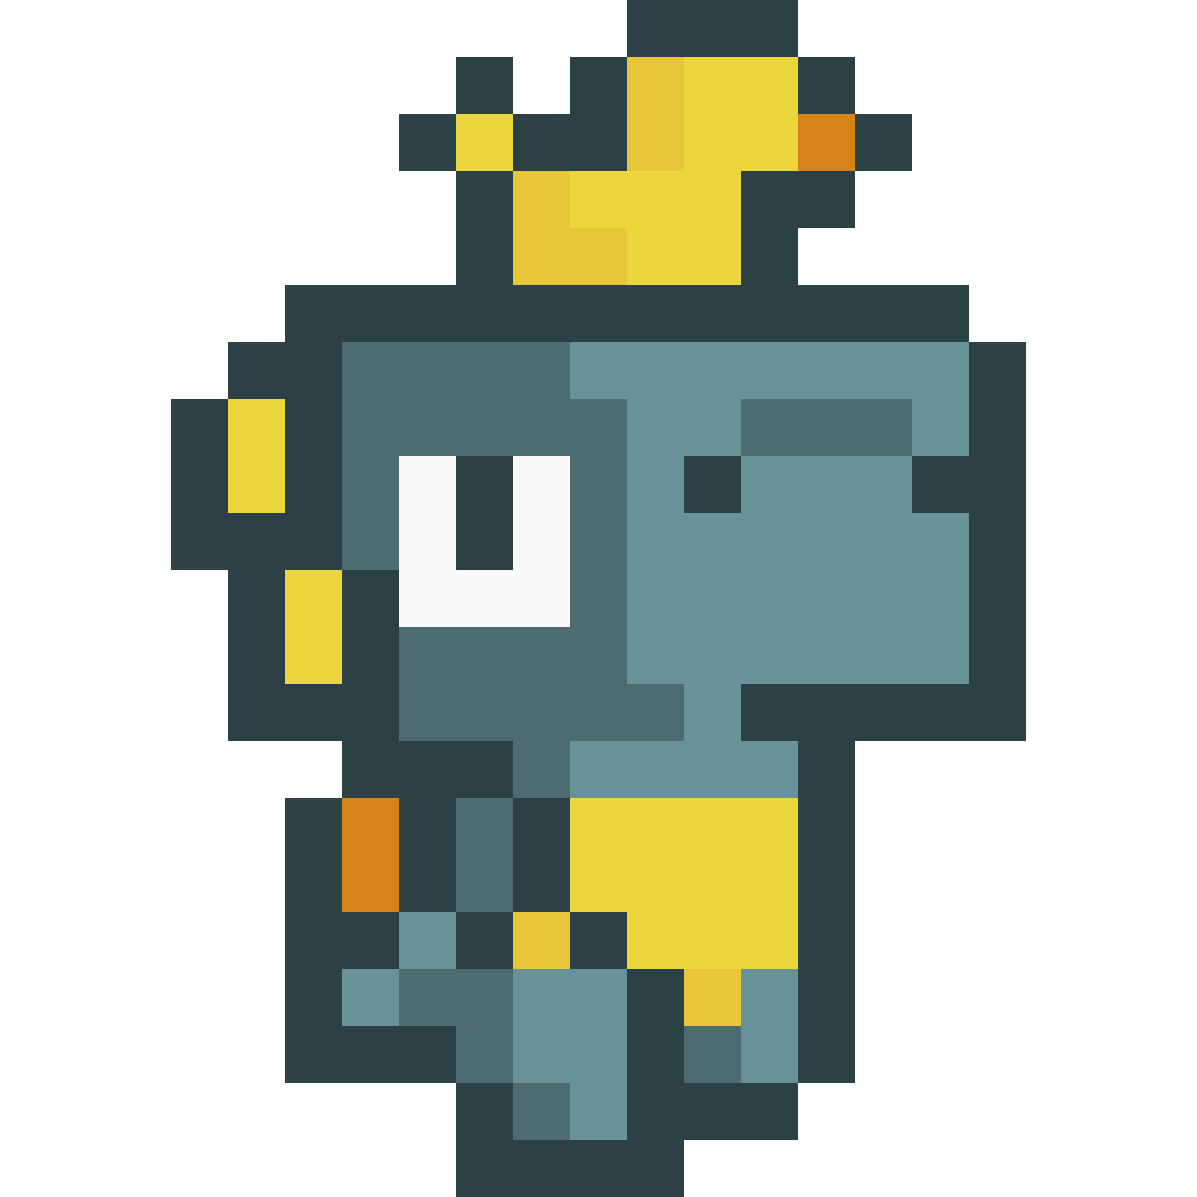
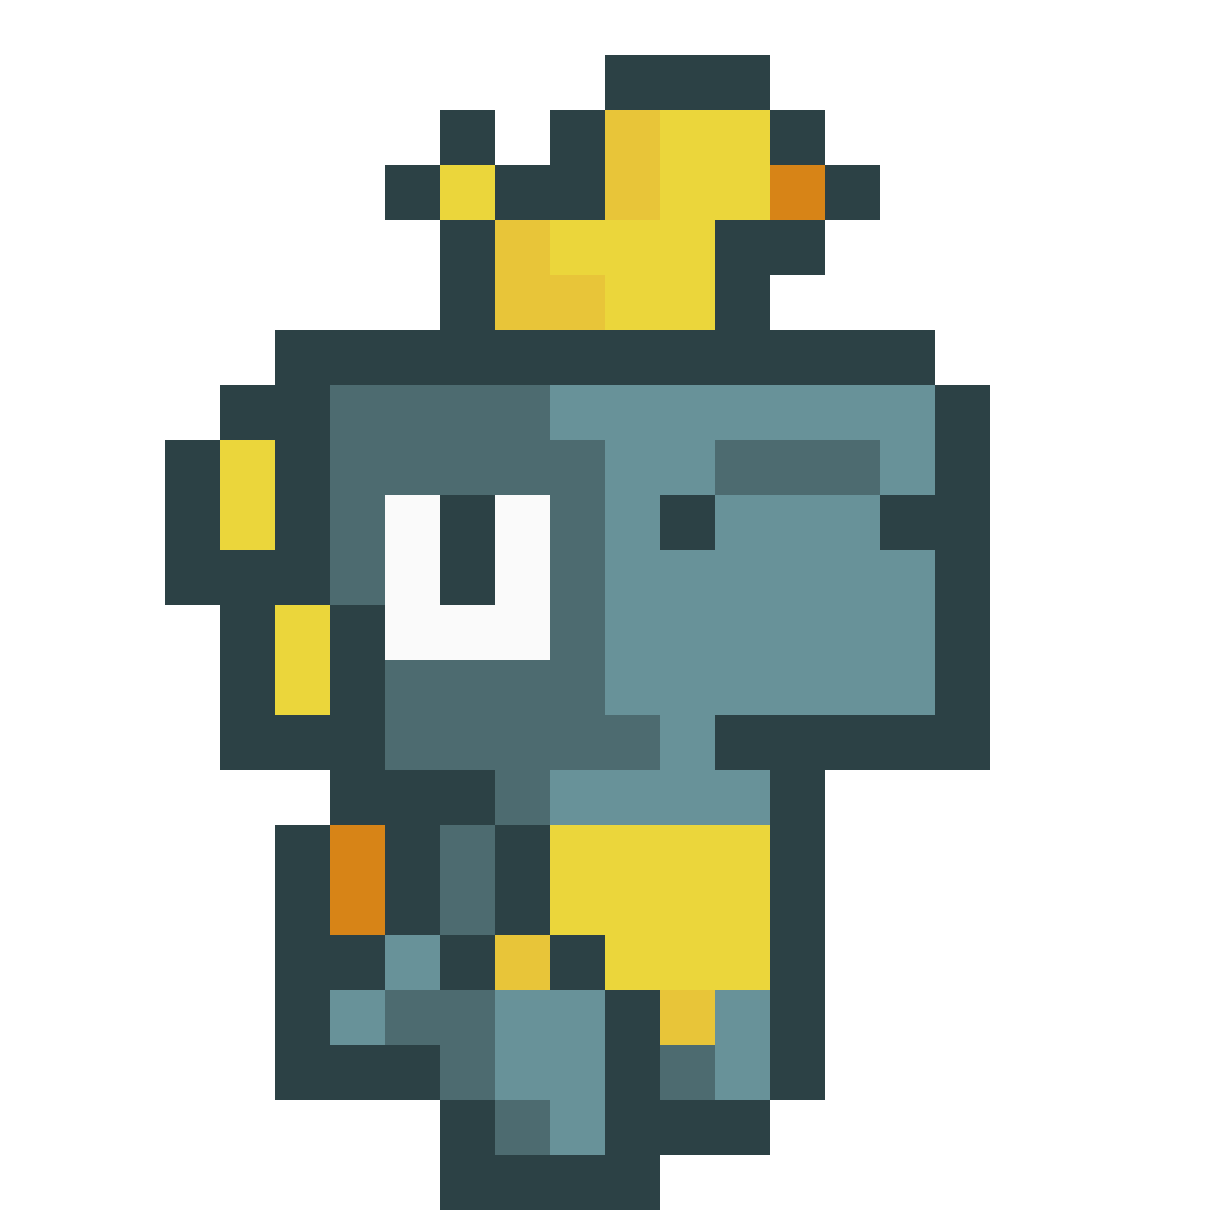
Added robo dino and fixed duck walk cycle frame 2

Changed region(s): [[0.1236, 0.0, 0.8655, 1.0]]

diff --git a/player.py b/player.py
@@ -18,6 +18,10 @@ class Player:
                  pygame.image.load("gfx/DuckDino/Duck R3.png"), pygame.image.load("gfx/DuckDino/Duck R4.png"),
                  pygame.image.load("gfx/DuckDino/Duck R5.png"), pygame.image.load("gfx/DuckDino/Duck R6.png")]
     duck_idle = pygame.image.load("gfx/DuckDino/Duck Idle.png")
+    robo_walk = [pygame.image.load("gfx/RoboDino/ROBO R1.png"), pygame.image.load("gfx/RoboDino/ROBO R2.png"),
+                 pygame.image.load("gfx/RoboDino/ROBO R3.png"), pygame.image.load("gfx/RoboDino/ROBO R4.png"),
+                 pygame.image.load("gfx/RoboDino/ROBO R5.png"), pygame.image.load("gfx/RoboDino/ROBO R6.png")]
+    robo_idle = pygame.image.load("gfx/RoboDino/Dino Bot Idle.png")
     rightSprite = idle
     rightSprite = pygame.transform.scale(rightSprite, (60, 60))
     leftSprite = pygame.transform.flip(rightSprite, True, False)
@@ -29,6 +33,8 @@ class Player:
 
         if self.costume == 0:
             self.rightSprite = self.walk[self.frame]
+        if self.costume == 1:
+            self.rightSprite = self.robo_walk[self.frame]
         elif self.costume == 2:
             self.rightSprite = self.duck_walk[self.frame]
 
@@ -39,6 +45,8 @@ class Player:
     def reset(self):
         if self.costume == 0:
             self.rightSprite = self.idle
+        if self.costume == 1:
+            self.rightSprite = self.robo_idle
         elif self.costume == 2:
             self.rightSprite = self.duck_idle
 

diff --git a/main.py b/main.py
@@ -416,7 +416,11 @@ def main():
                     dino.reset()
                     pygame.display.set_icon(dino.rightSprite)
                 elif check_collision_list(mouse_pos, costume2):
-                    full_sound.play()
+                    select_sound.play()
+                    selected_icon = (215, 71, 13, 13)
+                    dino.costume = 1
+                    dino.reset()
+                    pygame.display.set_icon(dino.rightSprite)
                 elif check_collision_list(mouse_pos, costume3):
                     select_sound.play()
                     selected_icon = (329, 71, 13, 13)
